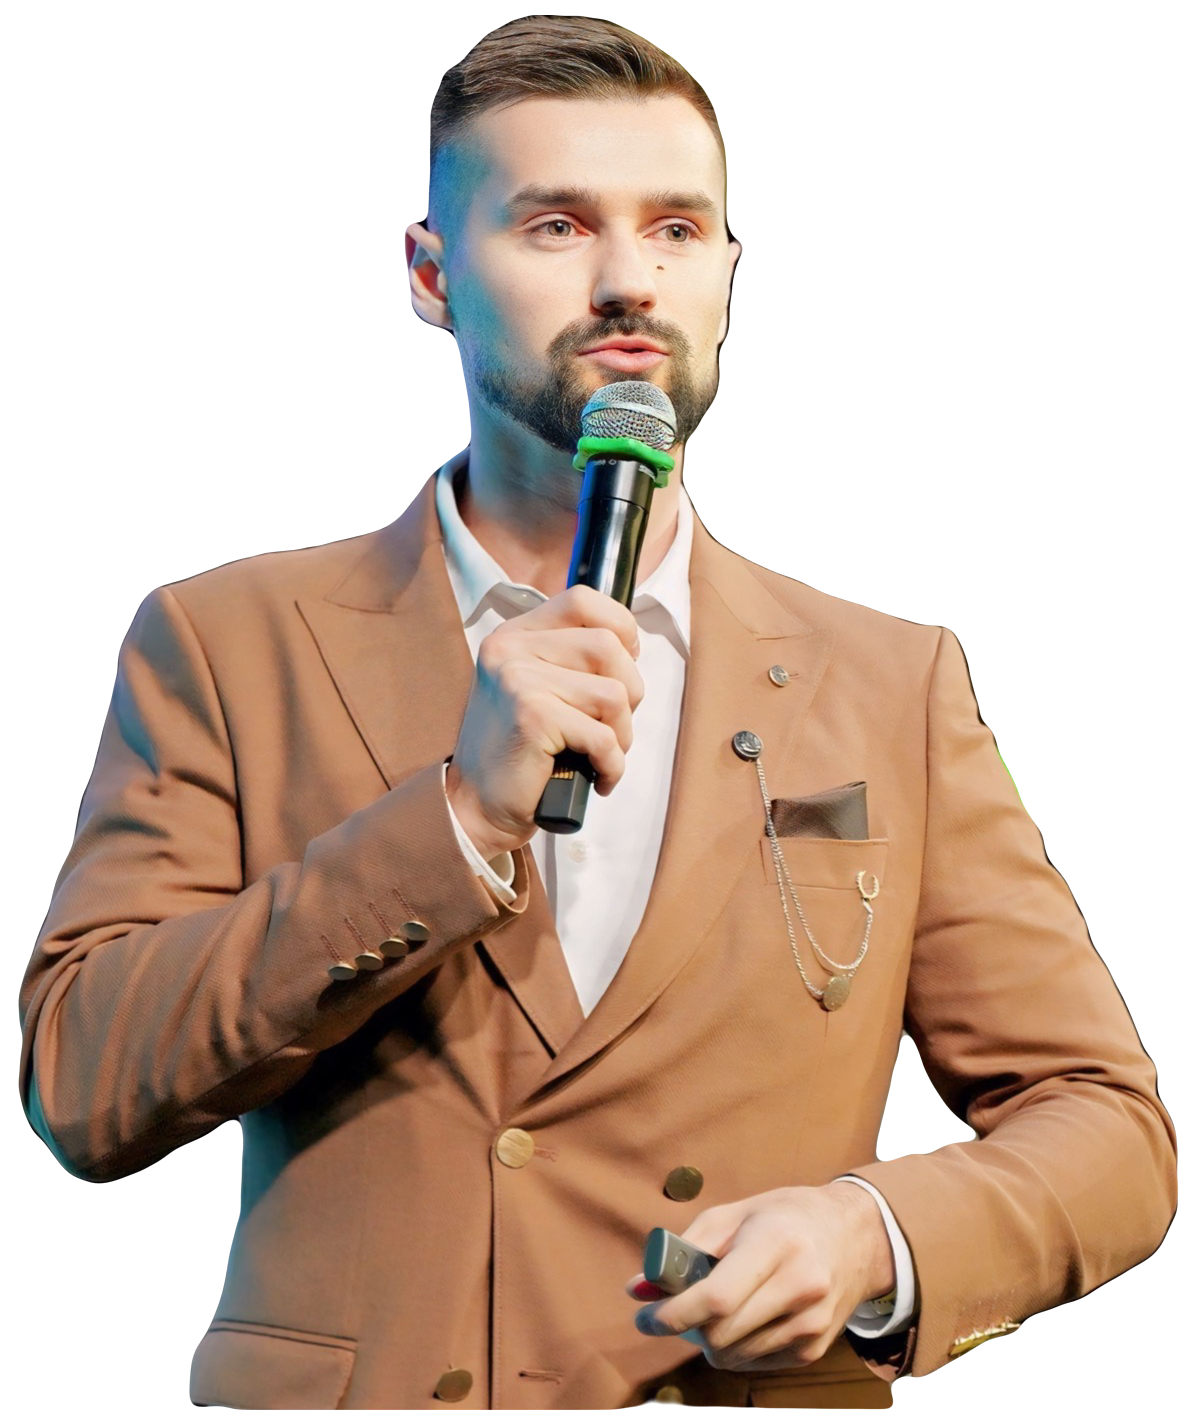
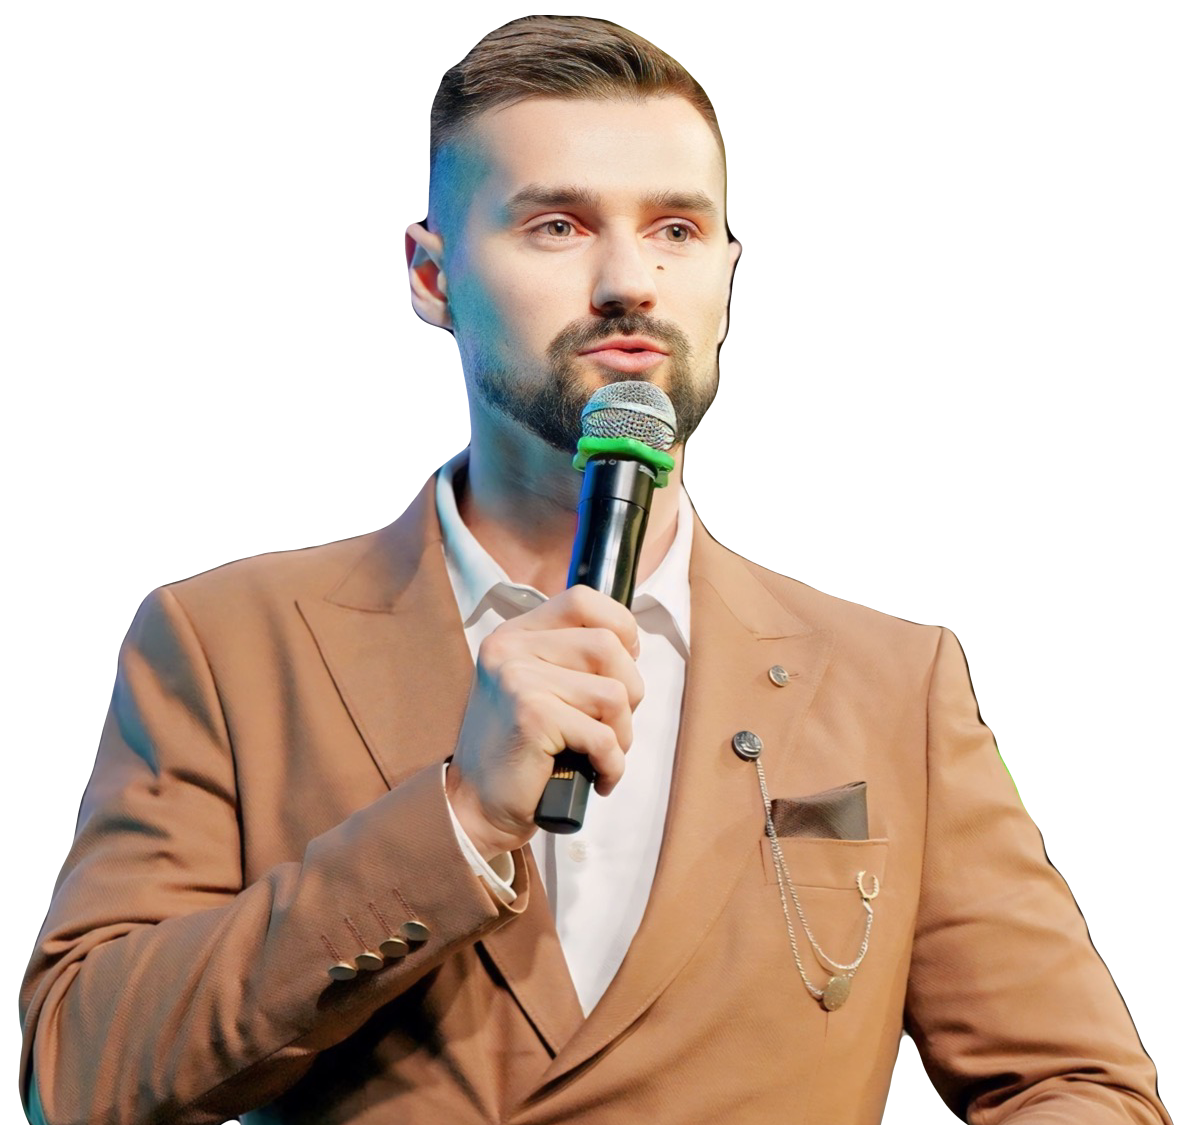
.

diff --git a/frontends/forum/display/Speakers.tsx b/frontends/forum/display/Speakers.tsx
@@ -70,9 +70,9 @@ export default function () {
                     "mx-auto flex w-full max-w-[14.5rem] flex-col items-center rounded-[50%] @550:max-w-[unset]",
                   ]}
                 >
-                  <div class="relative mb-[0.625rem] flex h-[340px] w-full items-center justify-center overflow-hidden rounded-[50%] [border:0.125rem_solid_var(--white)] [transition:1s]">
+                  <div class="mb-[0.625rem] flex max-h-[340px] w-full items-center justify-center overflow-hidden rounded-[50%] [border:0.125rem_solid_var(--white)] [transition:1s]">
                     <img
-                      class="absolute bottom-0 top-0 max-h-[440px] w-full object-cover"
+                      class="bottom-0 top-0 aspect-square max-h-[440px] w-full object-cover"
                       src={`/contents/forum/speakers/${item.photo}`}
                       alt="img"
                     />

diff --git a/frontends/forum/display/Confidence.tsx b/frontends/forum/display/Confidence.tsx
@@ -2,7 +2,7 @@ import { Cemjsx, Fn, Ref, Static } from "cemjs-all";
 
 export default function () {
   return (
-    <div class="mb-[3.375rem] mt-[1.875rem] text-center text-[clamp(0.9rem,3vw,2.6rem)] leading-[1.3]">
+    <div class="mb-[3.375rem] mt-[1.875rem] text-justify text-[clamp(0.9rem,3vw,2.6rem)] leading-[1.3]">
       Мы уверены, что наш криптофорум предоставит тебе всю ценную информацию,
       деловые возможности и возможности, которых больше нигде не встретишь.
     </div>

diff --git a/frontends/forum/display/Theme.tsx b/frontends/forum/display/Theme.tsx
@@ -4,7 +4,7 @@ export default function () {
   return (
     <section
       id="theme"
-      class="relative z-[2] pb-10 pt-[11.25rem] [background:url(/contents/forum/text-light-HNV7S6DT.png)_no-repeat_top_-150px_center/700px_auto]"
+      class="relative z-[2] pb-10 pt-[4.25rem] [background:url(/contents/forum/text-light-HNV7S6DT.png)_no-repeat_top_-250px_center/700px_auto]"
     >
       <div class="wrapper wrapper_padding">
         <p class="mb-12 ml-auto mr-auto max-w-[28.625rem] text-center text-[clamp(1.2rem,2vw,1.5rem)] font-semibold leading-[1.2]">
